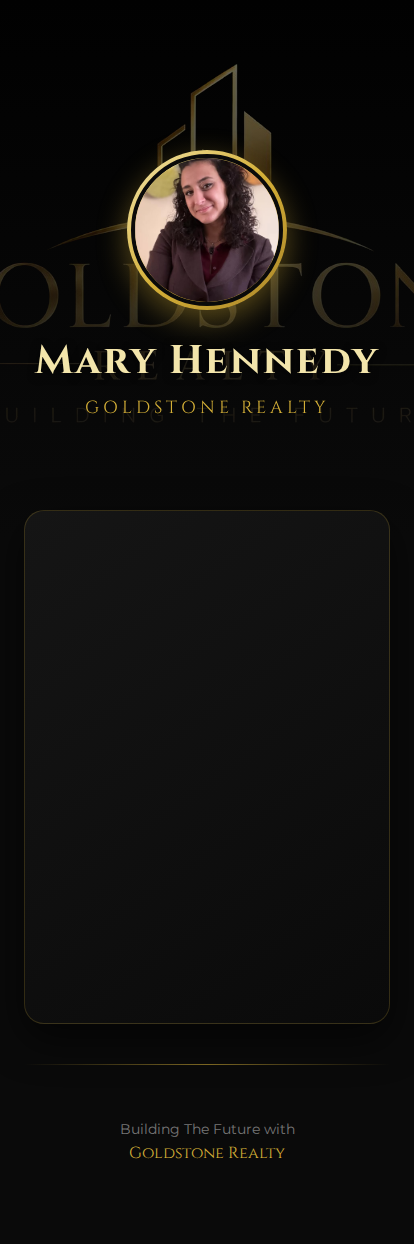
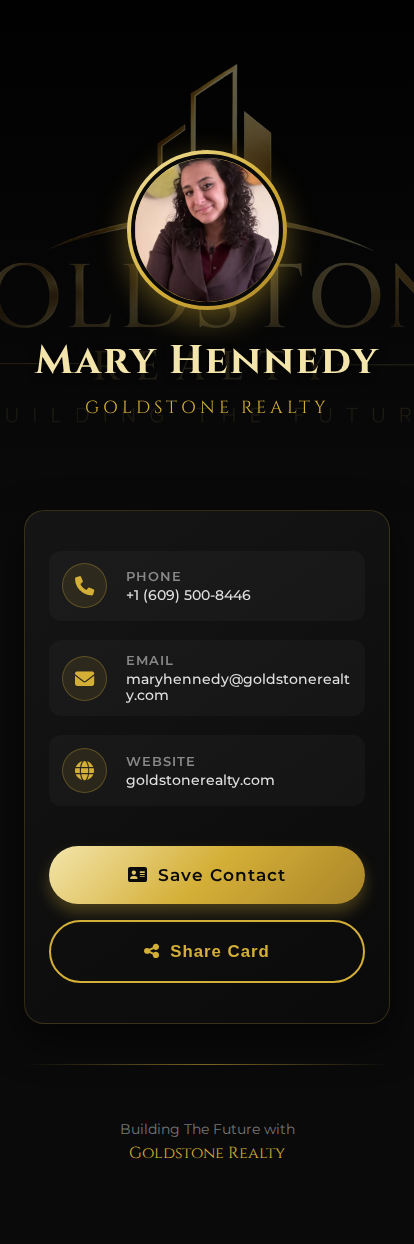
fix: Simplify GSAP animation to ensure contact details load reliably
Removed nested ScrollTrigger `tl.from()` animations for the `.contact-item` and `.btn` elements in `index.html`.
These elements were intermittently staying hidden (`opacity: 0`) due to scroll-position quirks on mobile devices. They now inherit their fade-in visibility from the parent `#contactCard` timeline, guaranteeing they appear on load.

diff --git a/index.html b/index.html
@@ -431,22 +431,6 @@
             }
         });
 
-        // Animate contact items and buttons in the main timeline
-        tl.from(".contact-item", {
-            opacity: 0,
-            x: -20,
-            duration: 0.6,
-            stagger: 0.15,
-            ease: "power2.out"
-        }, "-=0.2")
-        .from(".btn", {
-            opacity: 0,
-            y: 15,
-            duration: 0.5,
-            stagger: 0.1,
-            ease: "power2.out"
-        }, "-=0.2");
-
         // Web Share API implementation
         function shareCard() {
             if (navigator.share) {
